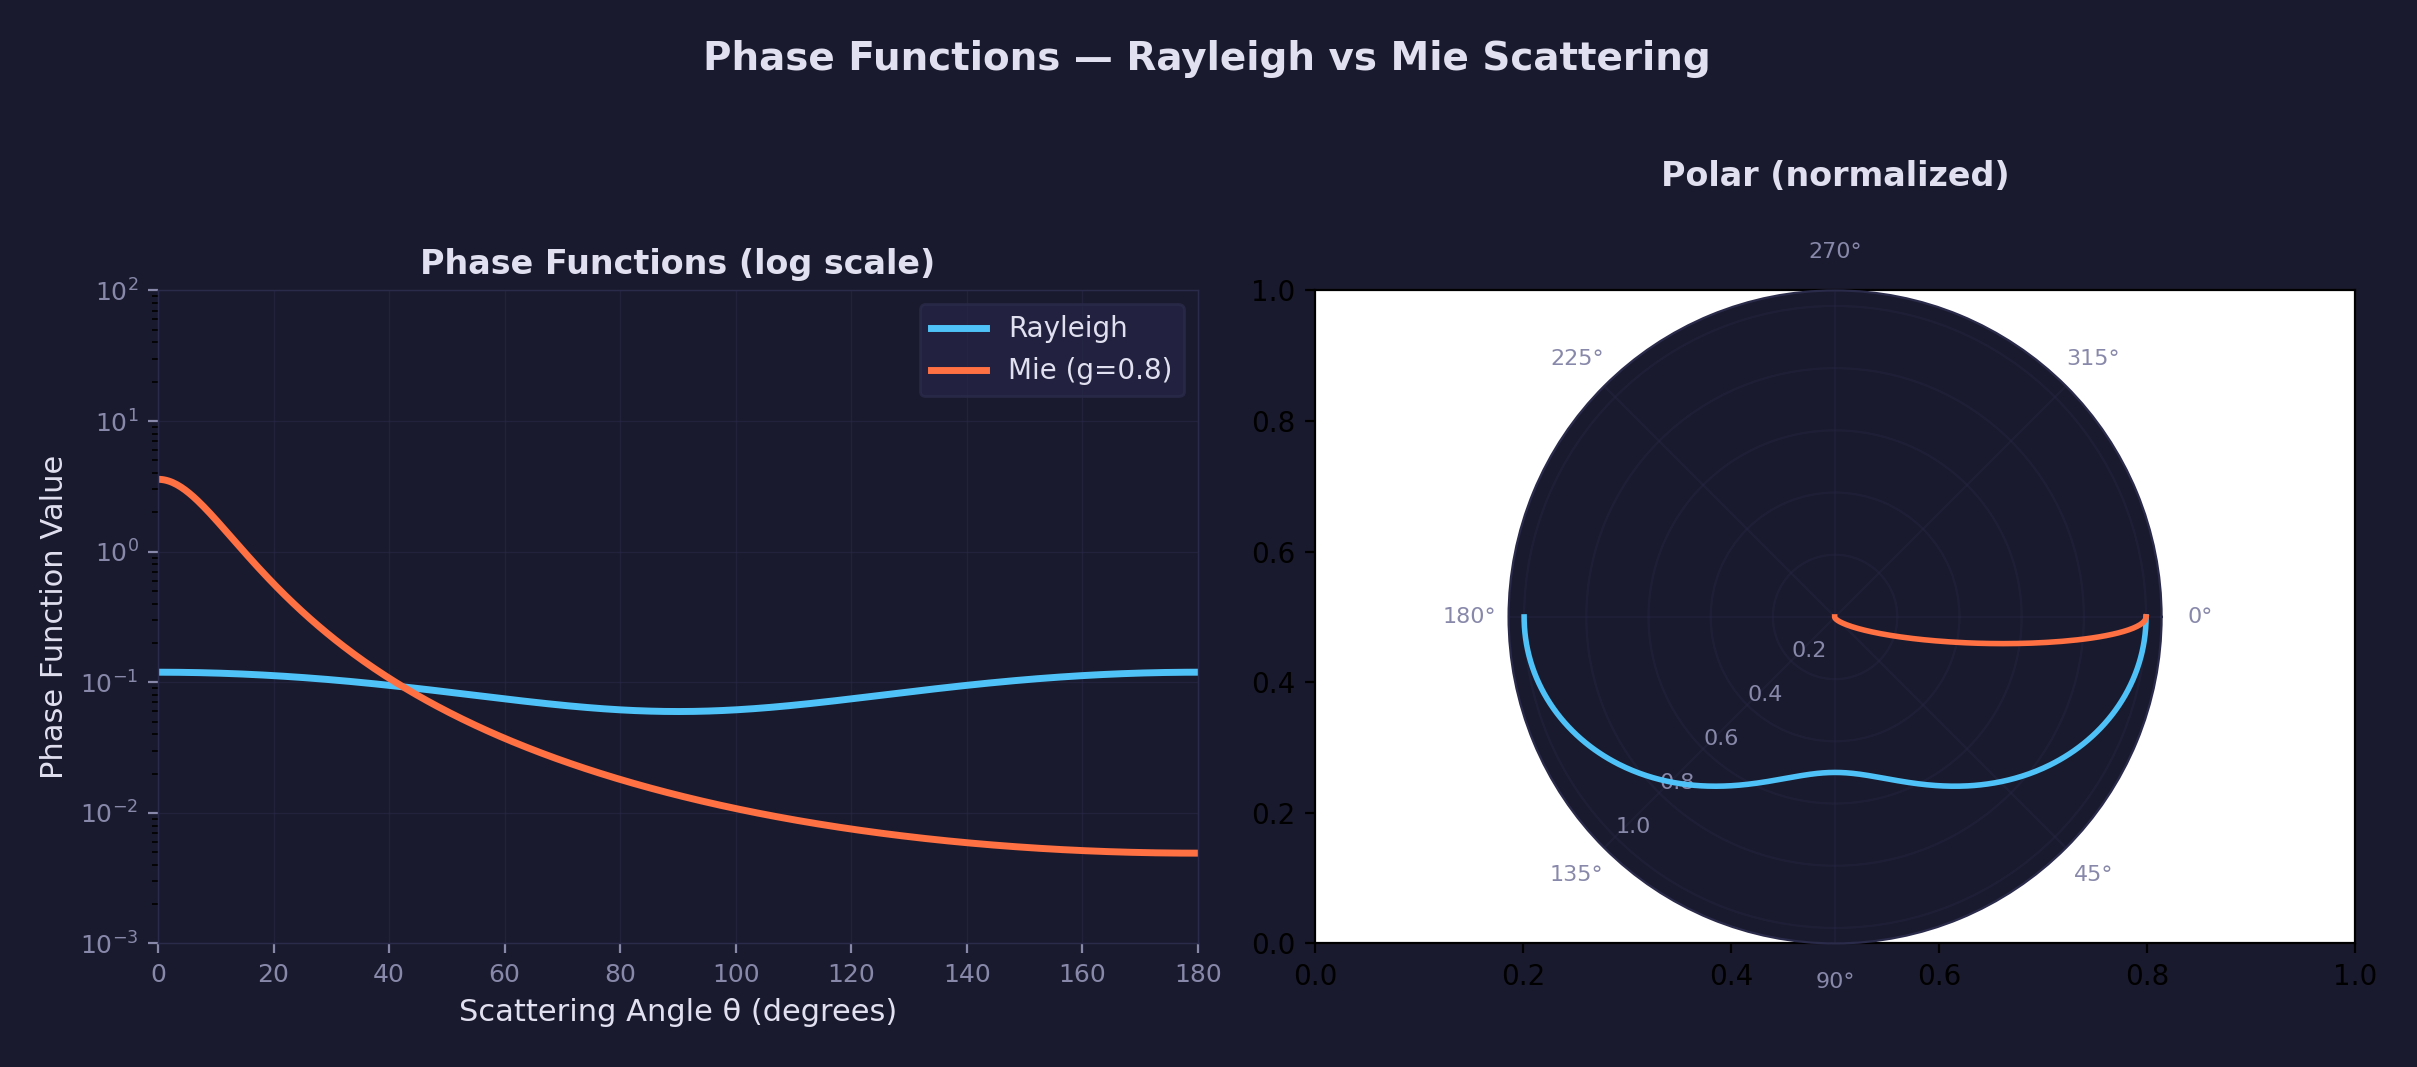
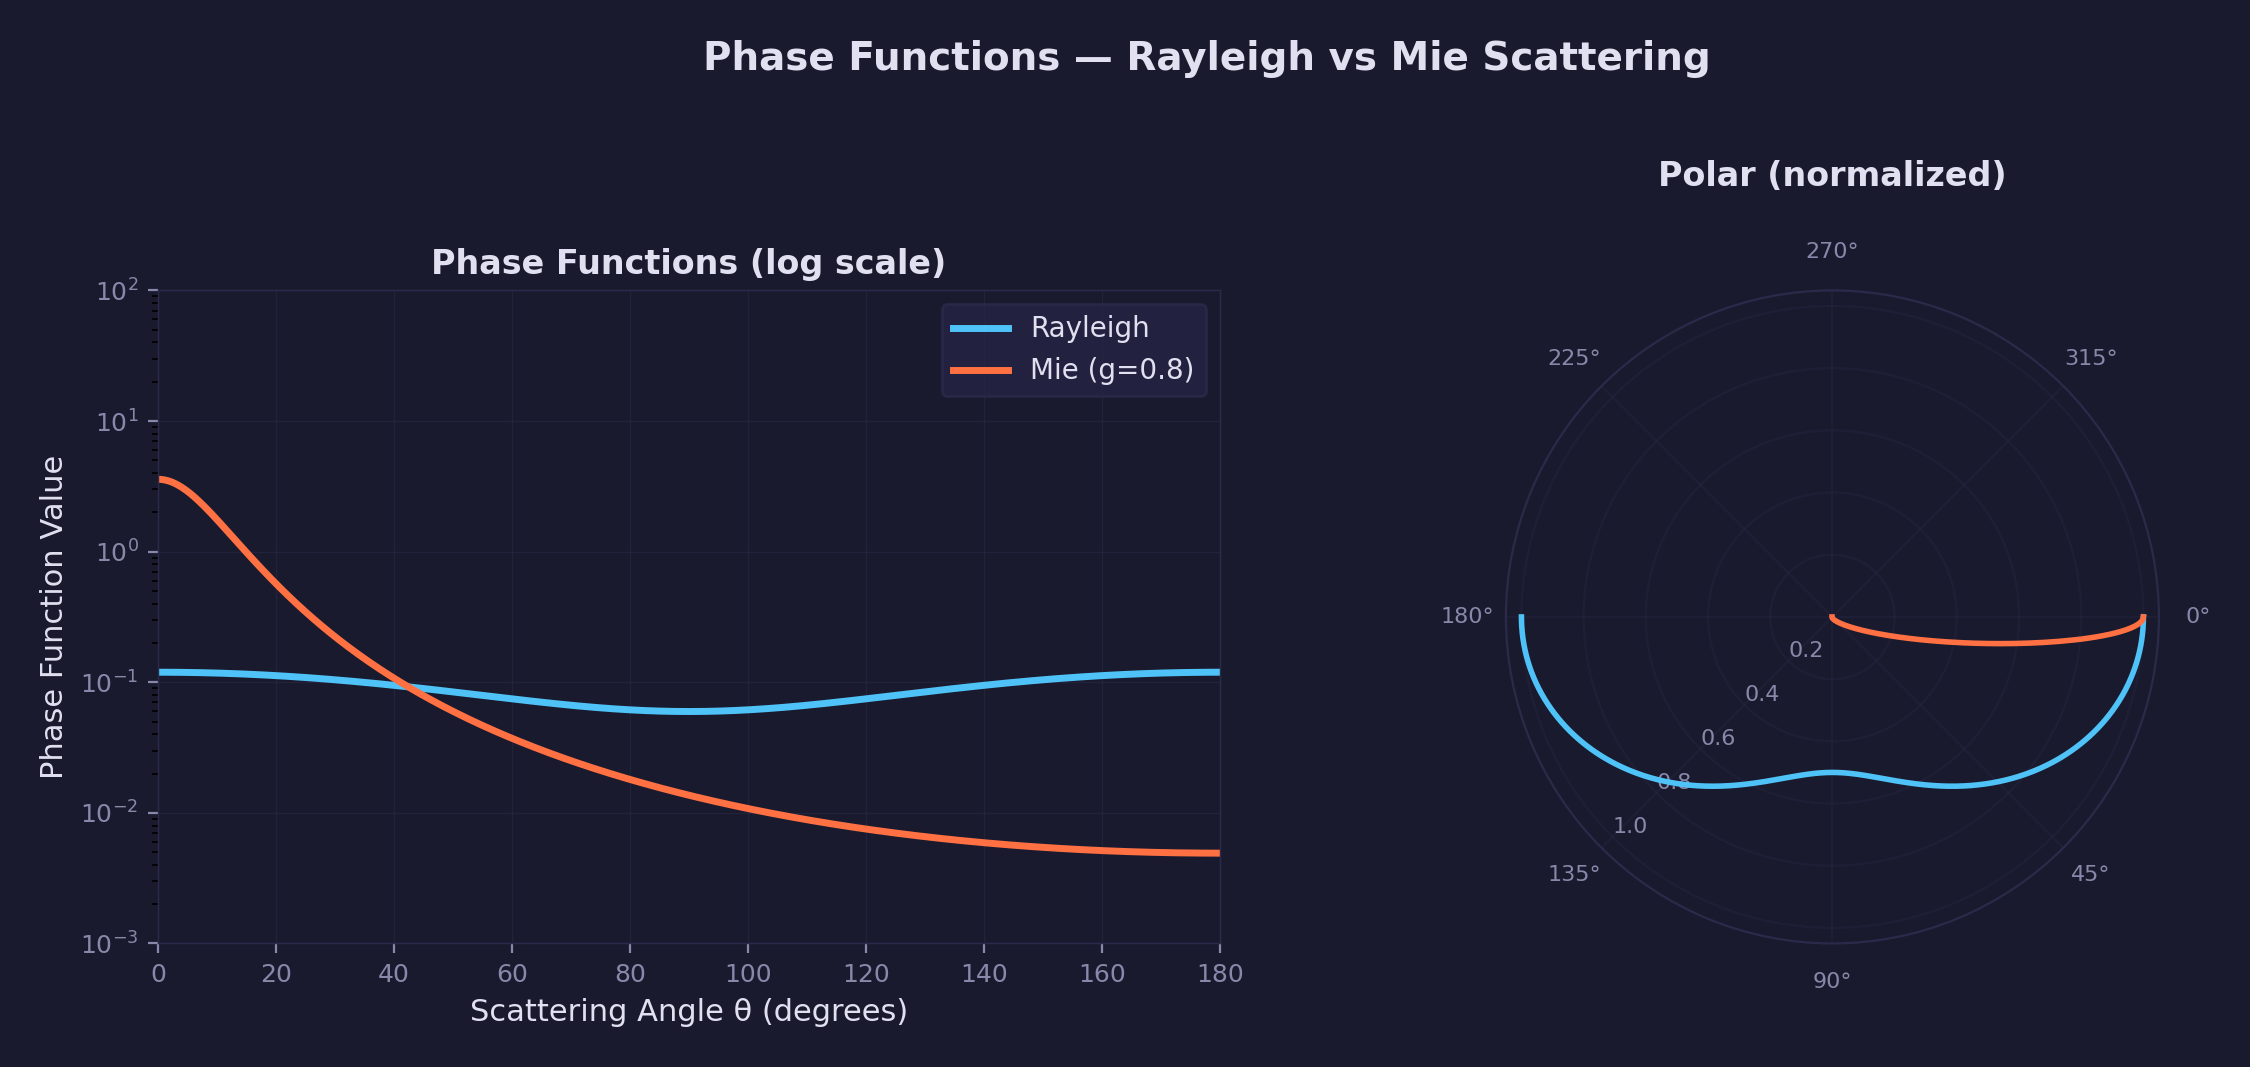
Address PR review feedback for lesson 26
- Hyphenate "Production-Ready" in Hillaire citation (SKILL, README, INVESTIGATION)
- Link libm on POSIX in CMakeLists.txt for forge_math.h functions
- Add SDL_ReleaseWindowFromGPUDevice before destroy on swapchain/alloc failure paths
- Replace local PI_F define with FORGE_PI from forge_math.h
- Guard negative discriminant in ray_sphere_intersection diagram
- Fix overlapping polar axis in phase_functions diagram (create ax2 as polar upfront)
- Add empty <td> to root README GPU table for 3-column alignment

diff --git a/lessons/gpu/26-procedural-sky/main.c b/lessons/gpu/26-procedural-sky/main.c
@@ -173,9 +173,6 @@
 /* Frame timing. */
 #define MAX_FRAME_DT 0.1f
 
-/* Pi constant for sun direction calculations. */
-#define PI_F 3.14159265358979f
-
 /* ── Uniform structures ──────────────────────────────────────────────────── */
 
 /* Sky vertex uniforms — ray matrix mapping NDC to world-space directions.
@@ -508,6 +505,7 @@ SDL_AppResult SDL_AppInit(void **appstate, int argc, char *argv[]) {
             SDL_GPU_SWAPCHAINCOMPOSITION_SDR_LINEAR,
             SDL_GPU_PRESENTMODE_VSYNC)) {
       SDL_Log("SDL_SetGPUSwapchainParameters failed: %s", SDL_GetError());
+      SDL_ReleaseWindowFromGPUDevice(device, window);
       SDL_DestroyWindow(window);
       SDL_DestroyGPUDevice(device);
       return SDL_APP_FAILURE;
@@ -520,6 +518,7 @@ SDL_AppResult SDL_AppInit(void **appstate, int argc, char *argv[]) {
   AppState *state = SDL_calloc(1, sizeof(AppState));
   if (!state) {
     SDL_Log("Failed to allocate AppState");
+    SDL_ReleaseWindowFromGPUDevice(device, window);
     SDL_DestroyWindow(window);
     SDL_DestroyGPUDevice(device);
     return SDL_APP_FAILURE;
@@ -1168,8 +1167,8 @@ SDL_AppResult SDL_AppIterate(void *appstate) {
     }
 
     /* Clamp sun elevation to [-π/2, π/2]. */
-    if (state->sun_elevation > PI_F * 0.5f) state->sun_elevation = PI_F * 0.5f;
-    if (state->sun_elevation < -PI_F * 0.5f) state->sun_elevation = -PI_F * 0.5f;
+    if (state->sun_elevation > FORGE_PI * 0.5f) state->sun_elevation = FORGE_PI * 0.5f;
+    if (state->sun_elevation < -FORGE_PI * 0.5f) state->sun_elevation = -FORGE_PI * 0.5f;
   }
 
   /* Auto day/night cycle — orbit the sun in a full circle so it rises,

diff --git a/scripts/forge_diagrams/gpu_diagrams.py b/scripts/forge_diagrams/gpu_diagrams.py
@@ -6855,7 +6855,11 @@ def diagram_ray_sphere_intersection():
     b = 2 * np.dot(cam, ray_dir)
     c_coeff = np.dot(cam, cam) - R_A**2
     disc = b**2 - 4 * a * c_coeff
-    t_far = (-b + np.sqrt(disc)) / (2 * a)
+    if disc < 0:
+        t_far = 2.0  # fallback: draw ray to a safe max distance
+    else:
+        t_near = (-b - np.sqrt(disc)) / (2 * a)  # noqa: F841
+        t_far = (-b + np.sqrt(disc)) / (2 * a)
 
     # Draw ray
     ray_end = cam + ray_dir * t_far
@@ -7139,7 +7143,9 @@ def diagram_ray_march():
 
 def diagram_phase_functions():
     """Rayleigh vs Mie (g=0.8) angular plots, 0-180 degrees."""
-    fig, (ax1, ax2) = plt.subplots(1, 2, figsize=(12, 5), facecolor=STYLE["bg"])
+    fig = plt.figure(figsize=(12, 5), facecolor=STYLE["bg"])
+    ax1 = fig.add_subplot(121)
+    ax2 = fig.add_subplot(122, polar=True, facecolor=STYLE["bg"])
 
     theta = np.linspace(0, np.pi, 500)
     cos_theta = np.cos(theta)
@@ -7176,8 +7182,7 @@ def diagram_phase_functions():
         fontweight="bold",
     )
 
-    # Polar plot
-    ax2 = fig.add_subplot(122, polar=True, facecolor=STYLE["bg"])
+    # Polar plot (ax2 was already created with polar=True above)
     ax2.plot(
         theta, rayleigh / rayleigh.max(), color=STYLE["accent1"], lw=2, label="Rayleigh"
     )

diff --git a/lessons/gpu/26-procedural-sky/README.md b/lessons/gpu/26-procedural-sky/README.md
@@ -587,13 +587,22 @@ scattering with scene rendering.
    the atmosphere integral from camera to the object distance, not to
    the atmosphere boundary.
 
-4. **Higher-resolution multi-scattering** — The current multi-scattering
+4. **Sky-view LUT** — Instead of ray marching per pixel every frame,
+   add a third LUT (e.g., 192×108) that stores the final sky color for
+   each view direction at the current camera altitude. Regenerate it
+   each frame with a compute pass, then sample it in the fragment shader
+   with a single texture fetch. This is how the Pixel Storm reference
+   implementation (and most production engines) avoid the per-pixel
+   march. You'll need a hemisphere parameterization that maps view
+   direction to UV — compare the performance before and after.
+
+5. **Higher-resolution multi-scattering** — The current multi-scattering
    LUT uses 32×32 texels with 64 direction samples. Increase to 64×64
    texels and 256 directions. Compare the visual quality — is there a
    visible difference? This illustrates why 32×32 is sufficient for
    the nearly-isotropic higher-order scattering.
 
-5. **Dynamic atmosphere** — Make the Rayleigh scale height a uniform
+6. **Dynamic atmosphere** — Make the Rayleigh scale height a uniform
    instead of a compile-time constant. Regenerate the LUTs each time
    the parameter changes by re-dispatching the compute shaders.
    Explore how the sky changes with different scale heights (e.g.,
@@ -844,7 +853,7 @@ for an entire region of parameter space.
 
 ## References
 
-- Hillaire, S. (2020). *A Scalable and Production Ready Sky and
+- Hillaire, S. (2020). *A Scalable and Production-Ready Sky and
   Atmosphere Rendering Technique.* EGSR 2020.
 - Bruneton, E. & Neyret, F. (2008). *Precomputed Atmospheric
   Scattering.* EGSR 2008.

diff --git a/lessons/gpu/26-procedural-sky/INVESTIGATION.md b/lessons/gpu/26-procedural-sky/INVESTIGATION.md
@@ -22,7 +22,7 @@ The reference implementation is the Pixel Storm engine's atmospheric sky system:
 - **`include/ps_kernels.h`** — Kernel declarations
 - **`include/ps_device_common.h`** — Device utilities
   (`ray_sphere_intersect_nearest`, `__saturatef`, etc.)
-- **Paper:** Hillaire, "A Scalable and Production Ready Sky and Atmosphere
+- **Paper:** Hillaire, "A Scalable and Production-Ready Sky and Atmosphere
   Rendering Technique", EGSR 2020
 
 ## Root Cause: NaN in multi-scattering LUT at ground level

diff --git a/.claude/skills/procedural-sky/SKILL.md b/.claude/skills/procedural-sky/SKILL.md
@@ -409,5 +409,5 @@ disc and creates a natural glow halo.
 - [Lesson 22 — Bloom](../../../lessons/gpu/22-bloom/) — HDR + bloom pipeline
 - [Lesson 11 — Compute Shaders](../../../lessons/gpu/11-compute-shaders/) —
   Compute pipeline fundamentals
-- Hillaire, S. (2020). *A Scalable and Production Ready Sky and
+- Hillaire, S. (2020). *A Scalable and Production-Ready Sky and
   Atmosphere Rendering Technique.* EGSR 2020.

diff --git a/README.md b/README.md
@@ -153,6 +153,7 @@ Learn the SDL GPU API and modern rendering techniques:
 <a href="lessons/gpu/26-procedural-sky/"><img src="lessons/gpu/26-procedural-sky/assets/screenshot.png" width="200" alt="Procedural Sky" /></a><br />
 <b>26</b> — Procedural Sky
 </td>
+<td></td>
 </tr>
 </table>
 
